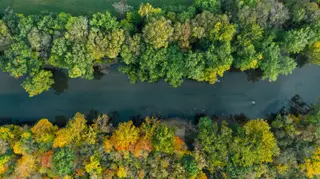
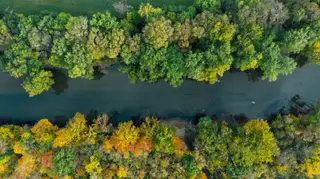
Complete performance optimization - 47% deployment size reduction
🚀 Critical Performance Fixes:
- Fixed blank white screen on initial load (ambient overlays now visible immediately)
- Eliminated newsletter CLS: 0.275 → 0 (switched Flexbox to CSS Grid)
- Hero image compression: quality 75 → 65 (saves 8KB per image)
- Mobile hero: 1024w → 768w (saves 56KB)
- Video posters: 768w → 480w WebP (saves 49KB total)

🎨 UI/UX Improvements:
- Removed isReady state logic causing delayed render
- Newsletter bar now uses stable grid layout with explicit track sizes
- Added CSS containment for better paint performance
- Fixed layout shift on footer positioning

⚡ Resource Optimization:
- Inlined newsletter CSS in index.html (reduces blocking ~200ms)
- Added --space CSS variable to critical CSS
- All images now use WebP-first strategy (no JPEG fallback)
- ResponsiveImage component uses 1024w WebP fallback

🗑 File Cleanup (36MB deleted):
- Removed all 12 JPEG source files (4.7MB saved)
- Removed all 12 duplicate full-size WebP files (2.6MB saved)
- Deleted non-optimized videos: plastic-reduction.mp4 (19MB), tree-planting.mp4 (9.7MB)
- Total deployment size: 57MB → 30MB (47% reduction)

📦 Files Modified:
- index.html (inlined newsletter CSS + --space variable)
- scripts/generate-webp.js (hero quality 75 → 65)
- src/App.vue (removed isReady logic)
- src/components/HeroSection.vue (WebP poster/fallback)
- src/components/ResponsiveImage.vue (WebP-only fallback)
- src/data/mediaLibrary.js (all images use -1024w.webp)
[…]

Changed region(s): [[0.75, 0.7821, 0.7812, 0.8101]]

diff --git a/index.html b/index.html
@@ -7,7 +7,7 @@
     <meta name="theme-color" content="#20926e" />
 
     <!-- Critical Above-the-Fold CSS -->
-    <style>body{margin:0;min-height:100vh;background:#f5fbf8;color:#0c2315;font-size:1rem;font-family:-apple-system,BlinkMacSystemFont,'Segoe UI',sans-serif}*,*::before,*::after{box-sizing:border-box}#app{min-height:100vh}.app-shell{min-height:100vh;display:flex;flex-direction:column;position:relative;overflow-x:hidden;background:linear-gradient(180deg,rgba(255,255,255,0.96),rgba(230,248,237,0.88))}.ambient{position:absolute;width:420px;height:420px;border-radius:50%;filter:blur(80px);opacity:0!important;visibility:hidden;z-index:0}.app-shell.ready .ambient{opacity:0.35!important;visibility:visible}main{flex:1;position:relative;z-index:1;min-height:calc(100vh - 80px - 200px)}footer{margin-top:auto;position:relative;z-index:2}.site-header{position:fixed;top:0;left:0;right:0;z-index:10;background:rgba(255,255,255,0.95);backdrop-filter:blur(10px);min-height:80px}.hero-image{position:relative;width:100%;min-height:100vh;background:#f5fbf8}.hero-image__background{position:absolute;inset:0;width:100%;height:100%;object-fit:cover;opacity:0;transition:opacity 0.3s ease-in}.hero-image__background.video-loaded{opacity:1}img,video{max-width:100%;display:block;height:auto}img.hero-image__background{opacity:1}.hero-image__content{position:relative;z-index:1;width:100%;margin:0 auto;padding-top:clamp(4rem,18vh,9rem);padding-bottom:clamp(3rem,14vh,7rem);color:white;text-shadow:0 2px 16px rgba(0,0,0,0.3);text-align:left}.hero-copy{max-width:800px;width:100%}.hero-image h1{font-size:clamp(2rem,4vw,3rem);margin:0 0 0.5rem;font-weight:700;line-height:1.2}.hero-subtitle{font-weight:600;font-size:1.2rem;margin:0 0 0.5rem}.lead{max-width:620px;font-size:1.1rem;margin:0 0 1.5rem;line-height:1.6;opacity:0.95}.eyebrow{text-transform:uppercase;letter-spacing:0.12em;font-size:0.78rem;font-weight:600;margin:0 0 0.75rem}.hero-image__content .eyebrow{color:#f5fbf8}.hero-cta{display:flex;flex-wrap:wrap;gap:0.75rem;margin-top:1.5rem}.accent-button,.ghost-button{font-weight:600;border-radius:999px;padding:0.75rem 1.75rem;border:none;cursor:pointer;display:inline-flex;align-items:center;justify-content:center;text-decoration:none;transition:all 0.2s ease;font-size:1rem}.accent-button{background:#147654;color:white;box-shadow:0 12px 40px rgba(20,118,84,0.35)}.ghost-button{background:rgba(255,255,255,0.9);border:1px solid rgba(32,146,110,0.35);color:#147654;box-shadow:0 8px 20px rgba(15,56,33,0.08)}.accent-button.large,.ghost-button.large{padding-inline:2.25rem;font-size:1.05rem}.hero-metrics{margin-top:2rem;display:grid;grid-template-columns:repeat(auto-fit,minmax(120px,1fr));gap:1rem}.hero-metrics .value{font-size:2rem;font-weight:600;margin:0}.hero-metrics .detail{margin:0;color:rgba(255,255,255,0.85);font-size:0.9rem}@media (max-width:640px){.hero-copy{max-width:none}.hero-cta{flex-direction:column}.hero-metrics{grid-template-columns:repeat(auto-fit,minmax(100px,1fr));gap:0.75rem}.hero-metrics .value{font-size:1.5rem}}</style>
+    <style>:root{--space:20px}@media (min-width:768px) and (max-width:1023px){:root{--space:50px}}@media (min-width:1024px) and (max-width:1365px){:root{--space:80px}}@media (min-width:1366px){:root{--space:100px}}body{margin:0;min-height:100vh;background:#f5fbf8;color:#0c2315;font-size:1rem;font-family:-apple-system,BlinkMacSystemFont,'Segoe UI',sans-serif}*,*::before,*::after{box-sizing:border-box}#app{min-height:100vh}.app-shell{min-height:100vh;display:flex;flex-direction:column;position:relative;overflow-x:hidden;background:linear-gradient(180deg,rgba(255,255,255,0.96),rgba(230,248,237,0.88))}.ambient{position:absolute;width:420px;height:420px;border-radius:50%;filter:blur(80px);opacity:0.35;z-index:0;pointer-events:none}.ambient-one{background:#9ed7eb;top:-140px;right:-20px}.ambient-two{background:#f3c969;bottom:40px;left:-140px}main{flex:1;position:relative;z-index:1;min-height:calc(100vh - 80px - 200px)}footer{margin-top:auto;position:relative;z-index:2}.site-header{position:fixed;top:0;left:0;right:0;z-index:10;background:rgba(255,255,255,0.95);backdrop-filter:blur(10px);min-height:80px}.hero-image{position:relative;width:100%;min-height:100vh;background:#f5fbf8}.hero-image__background{position:absolute;inset:0;width:100%;height:100%;object-fit:cover;opacity:0;transition:opacity 0.3s ease-in}.hero-image__background.video-loaded{opacity:1}img,video{max-width:100%;display:block;height:auto}img.hero-image__background{opacity:1}.hero-image__content{position:relative;z-index:1;width:100%;margin:0 auto;padding-top:clamp(4rem,18vh,9rem);padding-bottom:clamp(3rem,14vh,7rem);color:white;text-shadow:0 2px 16px rgba(0,0,0,0.3);text-align:left}.hero-copy{max-width:800px;width:100%}.hero-image h1{font-size:clamp(2rem,4vw,3rem);margin:0 0 0.5rem;font-weight:700;line-height:1.2}.hero-subtitle{font-weight:600;font-size:1.2rem;margin:0 0 0.5rem}.lead{max-width:620px;font-size:1.1rem;margin:0 0 1.5rem;line-height:1.6;opacity:0.95}.eyebrow{text-transform:uppercase;letter-spacing:0.12em;font-size:0.78rem;font-weight:600;margin:0 0 0.75rem}.hero-image__content .eyebrow{color:#f5fbf8}.hero-cta{display:flex;flex-wrap:wrap;gap:0.75rem;margin-top:1.5rem}.accent-button,.ghost-button{font-weight:600;border-radius:999px;padding:0.75rem 1.75rem;border:none;cursor:pointer;display:inline-flex;align-items:center;justify-content:center;text-decoration:none;transition:all 0.2s ease;font-size:1rem}.accent-button{background:#147654;color:white;box-shadow:0 12px 40px rgba(20,118,84,0.35)}.ghost-button{background:rgba(255,255,255,0.9);border:1px solid rgba(32,146,110,0.35);color:#147654;box-shadow:0 8px 20px rgba(15,56,33,0.08)}.accent-button.large,.ghost-button.large{padding-inline:2.25rem;font-size:1.05rem}.hero-metrics{margin-top:2rem;display:grid;grid-template-columns:repeat(auto-fit,minmax(120px,1fr));gap:1rem}.hero-metrics .value{font-size:2rem;font-weight:600;margin:0}.hero-metrics .detail{margin:0;color:rgba(255,255,255,0.85);font-size:0.9rem}.newsletter-bar{width:calc(100% - (2*var(--space)));margin:clamp(2rem,5vw,3rem) auto 0;padding-block:2rem;padding-inline:clamp(1.5rem,3vw,2.5rem);border-radius:18px;background:linear-gradient(135deg,rgba(32,146,110,0.12),rgba(159,215,235,0.24));border:1px dashed rgba(32,146,110,0.4);display:grid;grid-template-columns:1fr;gap:1.5rem;min-height:180px;contain:layout size style;align-content:flex-start}.newsletter-inline{display:flex;flex-wrap:nowrap;gap:0.75rem;align-items:center;position:relative;min-height:52px}.newsletter-inline input{flex:1 1 auto;min-width:180px}.newsletter-inline button{flex-shrink:0;white-space:nowrap}@media (min-width:768px){.newsletter-bar{grid-template-columns:minmax(220px,1fr) minmax(300px,1.3fr);min-height:120px;align-content:center;gap:2rem}}@media (max-width:640px){.hero-copy{max-width:none}.hero-cta{flex-direction:column}.hero-metrics{grid-template-columns:repeat(auto-fit,minmax(100px,1fr));gap:0.75rem}.hero-metrics .value{font-size:1.5rem}}</style>
 
     <!-- Performance: DNS Prefetch -->
     <link rel="dns-prefetch" href="https://fonts.googleapis.com">
@@ -18,8 +18,8 @@
     <link rel="preconnect" href="https://fonts.gstatic.com" crossorigin>
 
     <!-- Critical Resource Preloads for LCP -->
-    <link rel="preload" as="image" href="/images/hero-conservation-1024w.webp" type="image/webp" fetchpriority="high" media="(max-width: 1023px)">
-    <link rel="preload" as="image" href="/images/hero-conservation-1600w.webp" type="image/webp" fetchpriority="high" media="(min-width: 1024px)">
+    <link rel="preload" as="image" href="/images/hero-conservation-768w.webp" type="image/webp" fetchpriority="high" media="(max-width: 1023px)">
+    <link rel="preload" as="image" href="/images/hero-conservation-1024w.webp" type="image/webp" fetchpriority="high" media="(min-width: 1024px)">
     <link rel="preload" as="font" type="font/woff2" href="https://fonts.gstatic.com/s/spacegrotesk/v22/V8mDoQDjQSkFtoMM3T6r8E7mF71Q-gOoraIAEj62UUsjNsFjTDJK.woff2" crossorigin="anonymous">
     <!-- Note: Vite automatically adds CSS preload via modulepreload during build -->
 

diff --git a/src/data/mediaLibrary.js b/src/data/mediaLibrary.js
@@ -1,50 +1,50 @@
 export const mediaLibrary = {
   heroVideo: '/media/hero.mp4',
-  heroTreePlanting: '/images/tree-planting.jpg',
-  treeCanopy: '/images/rainforest-canopy.jpg',
-  treeWaterCapture: '/images/mangrove.jpg',
-  treeCommunity: '/images/community-lab.jpg',
+  heroTreePlanting: '/images/tree-planting-1024w.webp',
+  treeCanopy: '/images/rainforest-canopy-1024w.webp',
+  treeWaterCapture: '/images/mangrove-1024w.webp',
+  treeCommunity: '/images/community-lab-1024w.webp',
 
-  heroClimateAction: '/images/climate-lab.jpg',
-  climateHeatWatch: '/images/community-meeting.jpg',
-  climatePolicy: '/images/hero-forest.jpg',
-  climateFestival: '/images/plastic-action.jpg',
+  heroClimateAction: '/images/climate-lab-1024w.webp',
+  climateHeatWatch: '/images/community-meeting-1024w.webp',
+  climatePolicy: '/images/hero-forest-1024w.webp',
+  climateFestival: '/images/plastic-action-1024w.webp',
 
-  heroPlasticReduction: '/images/plastic-action.jpg',
-  plasticInterceptors: '/images/coastal-clean.jpg',
-  plasticMarkets: '/images/community-meeting.jpg',
-  plasticMakers: '/images/community-lab.jpg',
+  heroPlasticReduction: '/images/plastic-action-1024w.webp',
+  plasticInterceptors: '/images/coastal-clean-1024w.webp',
+  plasticMarkets: '/images/community-meeting-1024w.webp',
+  plasticMakers: '/images/community-lab-1024w.webp',
 
-  heroWildlifeProtection: '/images/wildlife-guardian.jpg',
-  wildlifeTelemetry: '/images/wildlife-ranger.jpg',
-  wildlifeMangroves: '/images/mangrove.jpg',
-  wildlifePollinator: '/images/hero-forest.jpg',
+  heroWildlifeProtection: '/images/wildlife-guardian-1024w.webp',
+  wildlifeTelemetry: '/images/wildlife-ranger-1024w.webp',
+  wildlifeMangroves: '/images/mangrove-1024w.webp',
+  wildlifePollinator: '/images/hero-forest-1024w.webp',
 
-  homeFocusTree: '/images/tree-planting.jpg',
-  homeFocusClimate: '/images/climate-lab.jpg',
-  homeFocusPlastic: '/images/plastic-action.jpg',
-  homeFocusWildlife: '/images/wildlife-guardian.jpg',
+  homeFocusTree: '/images/tree-planting-1024w.webp',
+  homeFocusClimate: '/images/climate-lab-1024w.webp',
+  homeFocusPlastic: '/images/plastic-action-1024w.webp',
+  homeFocusWildlife: '/images/wildlife-guardian-1024w.webp',
 
-  homeStoryCorridor: '/images/hero-forest.jpg',
-  homeStoryNursery: '/images/community-lab.jpg',
-  homeStoryOcean: '/images/coastal-clean.jpg',
+  homeStoryCorridor: '/images/hero-forest-1024w.webp',
+  homeStoryNursery: '/images/community-lab-1024w.webp',
+  homeStoryOcean: '/images/coastal-clean-1024w.webp',
 
-  homeGlobalRestoration: '/images/rainforest-canopy.jpg',
-  homeGlobalLearning: '/images/community-meeting.jpg',
-  homeGlobalCircular: '/images/coastal-clean.jpg',
+  homeGlobalRestoration: '/images/rainforest-canopy-1024w.webp',
+  homeGlobalLearning: '/images/community-meeting-1024w.webp',
+  homeGlobalCircular: '/images/coastal-clean-1024w.webp',
 
-  homeResearchFinance: '/images/community-meeting.jpg',
-  homeResearchSoil: '/images/tree-planting.jpg',
+  homeResearchFinance: '/images/community-meeting-1024w.webp',
+  homeResearchSoil: '/images/tree-planting-1024w.webp',
 
-  fieldMangrove: '/images/mangrove.jpg',
-  fieldSeedball: '/images/tree-planting.jpg',
-  fieldCoral: '/images/coastal-clean.jpg',
+  fieldMangrove: '/images/mangrove-1024w.webp',
+  fieldSeedball: '/images/tree-planting-1024w.webp',
+  fieldCoral: '/images/coastal-clean-1024w.webp',
 
-  blogCommunity: '/images/rainforest-canopy.jpg',
-  blogIndigenous: '/images/tree-planting.jpg',
-  blogOcean: '/images/coastal-clean.jpg',
-  blogWildlife: '/images/wildlife-guardian.jpg',
-  blogMangrove: '/images/mangrove.jpg',
+  blogCommunity: '/images/rainforest-canopy-1024w.webp',
+  blogIndigenous: '/images/tree-planting-1024w.webp',
+  blogOcean: '/images/coastal-clean-1024w.webp',
+  blogWildlife: '/images/wildlife-guardian-1024w.webp',
+  blogMangrove: '/images/mangrove-1024w.webp',
 
   videoTreePlanting: '/media/tree-planting-optimized.mp4',
   videoClimateAction: '/media/climate-action.mp4',

diff --git a/src/style.css b/src/style.css
@@ -713,45 +713,43 @@ main {
   border-radius: 18px;
   background: linear-gradient(135deg, rgba(32, 146, 110, 0.12), rgba(159, 215, 235, 0.24));
   border: 1px dashed rgba(32, 146, 110, 0.4);
-  display: flex;
-  flex-wrap: wrap;
+  display: grid;
+  grid-template-columns: 1fr;
   gap: 1.5rem;
-  align-items: flex-start;
-  justify-content: space-between;
-  min-height: 150px;
+  min-height: 180px;
   /* Prevent layout shifts with CSS containment */
-  contain: layout style paint;
+  contain: layout size style;
+  align-content: flex-start;
 }
 
-.newsletter-copy {
-  flex: 0 0 auto;
-  max-width: 100%;
+.newsletter-copy,
+.newsletter-inline {
+  /* Remove all flex-based sizing */
+  max-width: none;
+  width: 100%;
 }
 
-/* Desktop: explicit height and no wrap to prevent CLS */
+/* Desktop: two column grid to prevent CLS */
 @media (min-width: 768px) {
   .newsletter-bar {
+    grid-template-columns: minmax(220px, 1fr) minmax(300px, 1.3fr);
     min-height: 120px;
-    flex-wrap: nowrap;
-    align-items: center;
+    align-content: center;
+    gap: 2rem;
   }
 
   .newsletter-copy {
-    flex: 0 1 auto;
-    max-width: 45%;
-    min-width: 200px;
+    min-width: 220px;
   }
 }
 
 .newsletter-inline {
   display: flex;
-  flex-wrap: wrap;
-  gap: 1rem;
+  flex-wrap: nowrap;
+  gap: 0.75rem;
   align-items: center;
   position: relative;
   min-height: 52px;
-  flex: 1 1 auto;
-  max-width: 100%;
 }
 
 .newsletter-inline input {
@@ -759,22 +757,13 @@ main {
   border-radius: 999px;
   border: 1px solid rgba(32, 146, 110, 0.2);
   font-size: 1rem;
-  width: 220px;
-  flex: 0 1 220px;
-  max-width: 100%;
+  flex: 1 1 auto;
+  min-width: 180px;
 }
 
-@media (min-width: 768px) {
-  .newsletter-inline {
-    flex-wrap: nowrap;
-    flex: 1 1 auto;
-  }
-
-  .newsletter-inline input {
-    flex: 1 1 auto;
-    min-width: 200px;
-    max-width: 280px;
-  }
+.newsletter-inline button {
+  flex-shrink: 0;
+  white-space: nowrap;
 }
 
 .success-text {

diff --git a/src/pages/Home.vue b/src/pages/Home.vue
@@ -107,25 +107,25 @@ const showcaseVideos = [
     title: 'Tree Planting',
     description: 'Indigenous species planted with community-led monitoring to restore forests and improve air quality.',
     src: mediaLibrary.videoTreePlanting,
-    poster: '/images/tree-planting-768w.webp'
+    poster: '/images/tree-planting-480w.webp'
   },
   {
     title: 'Climate Action',
     description: 'Hands-on climate literacy programs that turn scientific knowledge into tangible community action.',
     src: mediaLibrary.videoClimateAction,
-    poster: '/images/climate-lab-768w.webp'
+    poster: '/images/climate-lab-480w.webp'
   },
   {
     title: 'Plastic Reduction',
     description: 'Circular waste systems that eliminate plastic pollution and protect our oceans and coastlines.',
     src: mediaLibrary.videoPlasticReduction,
-    poster: '/images/plastic-action-768w.webp'
+    poster: '/images/plastic-action-480w.webp'
   },
   {
     title: 'Wildlife Protection',
     description: 'Community guardianships that reconnect habitats and safeguard biodiversity for future generations.',
     src: mediaLibrary.videoWildlifeProtection,
-    poster: '/images/wildlife-guardian-768w.webp'
+    poster: '/images/wildlife-guardian-480w.webp'
   }
 ]
 

diff --git a/src/App.vue b/src/App.vue
@@ -1,15 +1,10 @@
 <script setup>
 import { RouterView } from 'vue-router'
-import { ref, onMounted } from 'vue'
+import { onMounted } from 'vue'
 import Navbar from './components/Navbar.vue'
 import Footer from './components/Footer.vue'
 
-const isReady = ref(false)
-
 onMounted(() => {
-  // Mark app as ready immediately (no delay)
-  isReady.value = true
-
   if (typeof document === 'undefined') return
   if (document.getElementById('vf-structured-data')) return
 
@@ -51,7 +46,7 @@ onMounted(() => {
 </script>
 
 <template>
-  <div class="app-shell" :class="{ 'ready': isReady }">
+  <div class="app-shell">
     <div class="ambient ambient-one" aria-hidden="true"></div>
     <div class="ambient ambient-two" aria-hidden="true"></div>
 

diff --git a/src/components/HeroSection.vue b/src/components/HeroSection.vue
@@ -126,7 +126,7 @@ const handleVideoEnd = () => {
       loop
       playsinline
       preload="none"
-      poster="/images/hero-conservation.jpg"
+      poster="/images/hero-conservation-1024w.webp"
       @canplay="handleVideoLoaded"
       @timeupdate="handleTimeUpdate"
       @ended="handleVideoEnd"
@@ -138,7 +138,7 @@ const handleVideoEnd = () => {
       <source data-src="/media/hero-optimized.mp4" type="video/mp4" />
       <!-- Fallback image if video fails -->
       <img
-        src="/images/hero-conservation.jpg"
+        src="/images/hero-conservation-1024w.webp"
         alt="Environmental conservation - community planting trees"
       />
     </video>

diff --git a/src/components/ResponsiveImage.vue b/src/components/ResponsiveImage.vue
@@ -62,9 +62,10 @@ const webpSrcset = computed(() => {
     .join(', ')
 })
 
-// Fallback src (original JPEG - full size)
+// Fallback src (1024w WebP for modern browsers)
 const fallbackSrc = computed(() => {
-  return `${props.src}.jpg`
+  const { basePath, filename } = imageInfo.value
+  return `${basePath}${filename}-1024w.webp`
 })
 </script>
 
@@ -77,7 +78,7 @@ const fallbackSrc = computed(() => {
       :sizes="sizes"
     />
 
-    <!-- Fallback img element (original JPEG) -->
+    <!-- Fallback img element (1024w WebP) -->
     <img
       :src="fallbackSrc"
       :alt="alt"

diff --git a/scripts/generate-webp.js b/scripts/generate-webp.js
@@ -15,7 +15,7 @@ const SIZES = [320, 480, 768, 1024, 1600]
 
 // Quality settings
 const WEBP_QUALITY = 82
-const WEBP_QUALITY_HERO = 75 // Lower quality for hero image to save bandwidth
+const WEBP_QUALITY_HERO = 65 // Lower quality for hero image to save bandwidth
 const JPEG_QUALITY = 80
 
 async function generateResponsiveImages() {
